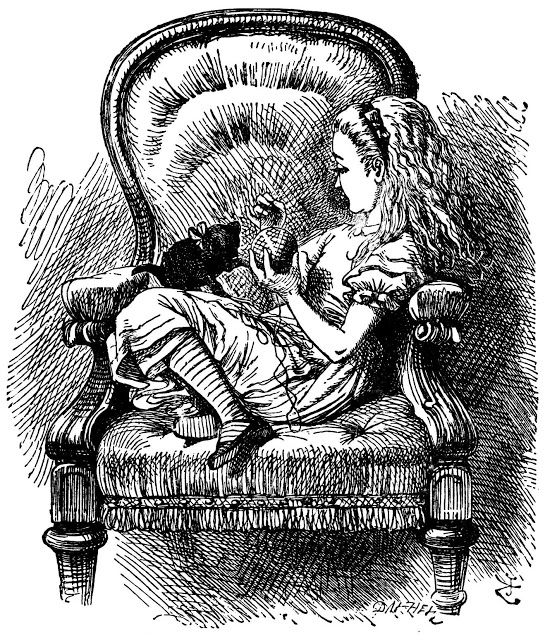
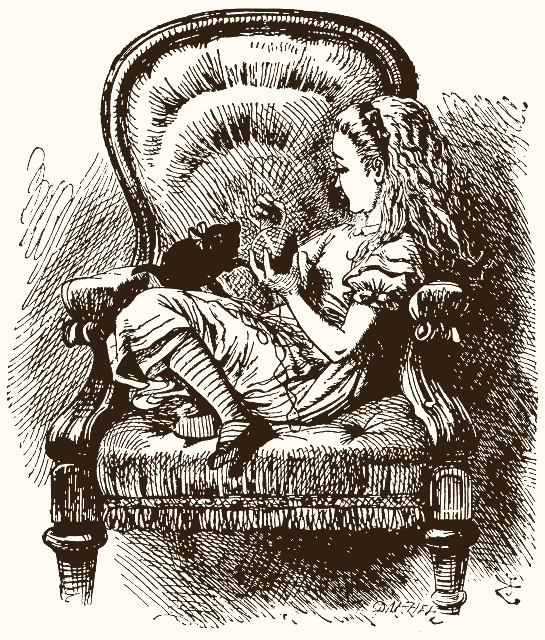
Margins in ch1
Added margins to ch1 in order to make the page more book-like and
readable.

diff --git a/title_page.html b/title_page.html
@@ -2,12 +2,6 @@
 <html>
   <head>
     <title>Alice - Title Page</title>
-    <style media="screen">
-    /* #fff9f4 for background for an old-timey paper look? */
-    a {
-      color: #295b87;
-    }
-    </style>
   </head>
   <body>
     <h1>THROUGH THE LOOKING-GLASS</h1>

diff --git a/chapter_one.html b/chapter_one.html
@@ -3,6 +3,7 @@
   <head>
     <meta charset="utf-8" />
     <title>Alice - Chapter One</title>
+    <link rel="stylesheet" href="alice_style.css">
   </head>
   <body>
     <h2>CHAPTER I. Looking-Glass House</h2>

diff --git a/alice_style.css b/alice_style.css
@@ -1,0 +1,9 @@
+body {
+  color: #302012;
+  background-color: #fffbf2;
+  padding: 8.5%;
+}
+
+a {
+  color: #295b87;
+}
